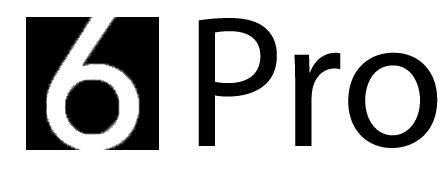
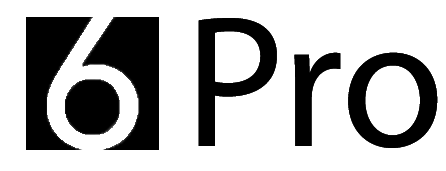
swag two

diff --git a/css/6pro.css b/css/6pro.css
@@ -2,28 +2,52 @@ html,
 body {
     width: 100%;
     height: 100%;
+    text-decoration-color: white;
 }
 /* Start Cursive Font */
-.cursive {
+.big-cursive {
     font-family: 'Dancing Script', cursive;
+    font-size: 8em;
 }
 /* End Cursive Font */
 
+/* Start Custom Intro Button*/
+.btn-custom {
+    color: gold;
+    background-color: transparent;
+    border-color: transparent;
+}
+/* End Custom Intro Button */
 
-/* Start Div Center position Class */
-.div-center{
+
+
+
+
+/* Start Intro Button Padding Top*/
+.intro-btn-padding{
     position: absolute;
     top: 90%;
 
 }
-/* End Div Center Postion Class */
+/* End Intro Button Padding Top*/
+
+
+
+/*Start Text Shadow */
+.black-text-shadow {
+    text-shadow: 1px 1px 1px #000000;
+}
+/* End Text Shadow */
+
+
 
 
 /* Start Title Size */
 .title-size {
-    font-size:6em;
+    font-size: 3em;
 }
 /* End Title Size */
+
 
 /* Start Sub-Title Size */
 .sub-title-size{
@@ -45,7 +69,7 @@ body {
 /* Start Intro Text Padding */
 .text-intro-padding{
     position: relative;
-    top: 4em;
+    top: 6em;
 }
 /* End Intro Text Padding */
 
@@ -60,8 +84,8 @@ body {
 
 /* Start 6Pro Navbar Logo Properties */
 .logo {
-    height: 32px;
-    width:  80px;
+    height: 40px;
+    width:  98px;
 }
 /* End of 6Pro Navbar Logo Properties */
 
@@ -83,7 +107,7 @@ body {
     position: relative;
     width: 100%;
     height: 100%;
-    background: url(../img/cleancity.jpg) no-repeat center center scroll;
+    background: url(../img/newyork.jpg) no-repeat center center scroll;
     -moz-background-size: cover;
     -webkit-background-size: cover;
     -moz-background-size: cover;
